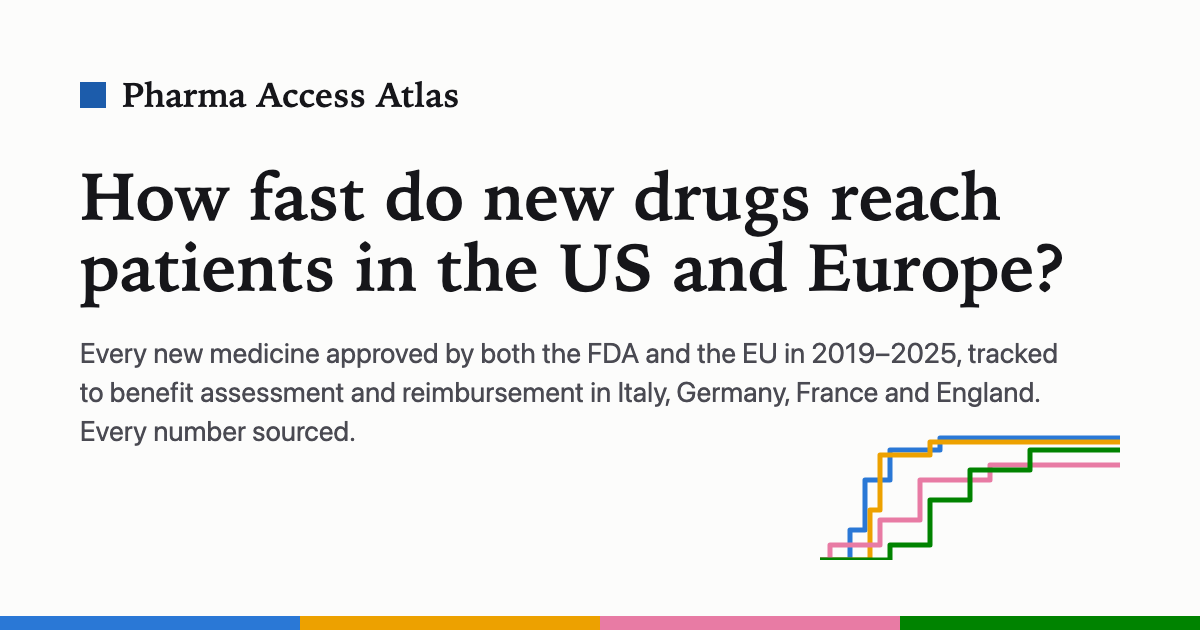
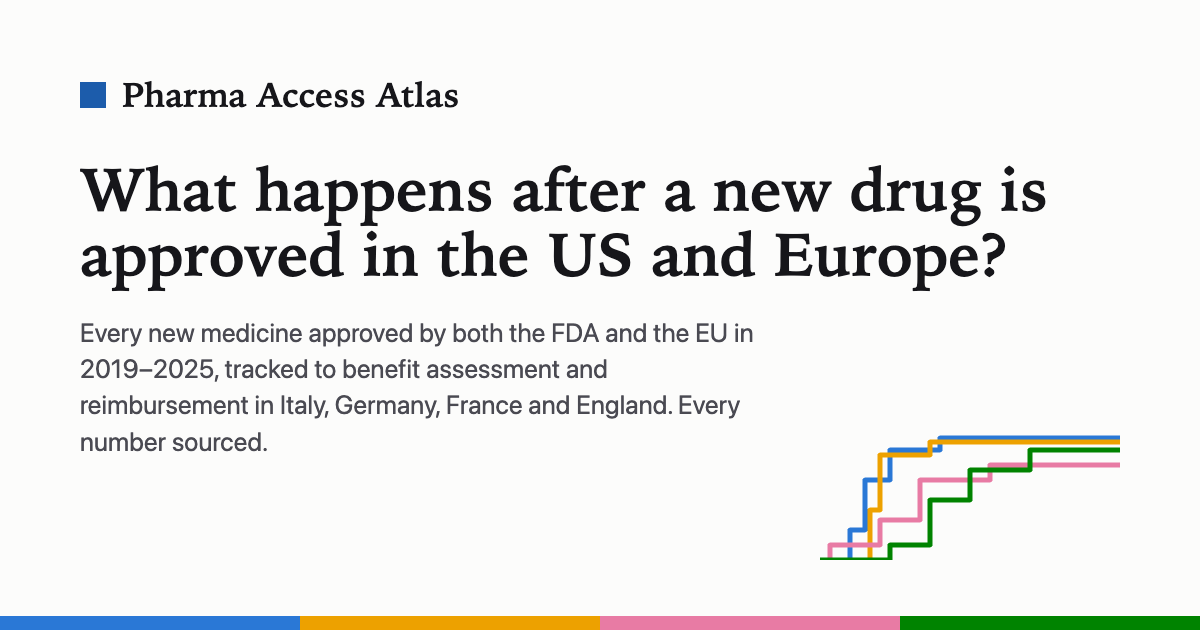
Remove remaining rankings and state why 10 drugs leave the Italian curve
Drug briefs: the heading is now "In context" and the Italian comparison no
longer ranks the drug among others ("18th-longest wait"); it says longer or
shorter than the median. The Italy country page says national reimbursement,
not access, starts at publication. The link-preview image and the country page
descriptions no longer ask "how fast". The Methodology's "Drugs without a
verdict" section now gives Italy's counts, including the drugs whose Italian
status could not be verified. All four languages.

Changed region(s): [[0.0617, 0.2413, 0.8942, 0.7238]]

diff --git a/docs/social-card.html b/docs/social-card.html
@@ -8,14 +8,14 @@
   .wrap { position: absolute; inset: 0; padding: 72px 80px; box-sizing: border-box; }
   .brand { font-family: "Iowan Old Style", Palatino, Georgia, serif; font-size: 34px; font-weight: 600; display: flex; align-items: center; gap: 16px; }
   .brand::before { content: ""; width: 26px; height: 26px; background: #1c5cab; display: inline-block; }
-  h1 { font-family: "Iowan Old Style", Palatino, Georgia, serif; font-size: 66px; line-height: 1.08; margin: 44px 0 0; max-width: 1000px; font-weight: 600; }
-  p { font-size: 28px; color: #4a4a52; margin: 28px 0 0; max-width: 980px; line-height: 1.4; }
+  h1 { font-family: "Iowan Old Style", Palatino, Georgia, serif; font-size: 60px; line-height: 1.08; margin: 40px 0 0; max-width: 1040px; font-weight: 600; }
+  p { font-size: 26px; color: #4a4a52; margin: 26px 0 0; max-width: 690px; line-height: 1.4; }
   .bar { position: absolute; left: 0; right: 0; bottom: 0; height: 14px; display: flex; }
   .bar span { flex: 1; }
   svg { position: absolute; right: 80px; bottom: 70px; }
 </style></head><body><div class="wrap">
   <div class="brand">Pharma Access Atlas</div>
-  <h1>How fast do new drugs reach patients in the US and Europe?</h1>
+  <h1>What happens after a new drug is approved in the US and Europe?</h1>
   <p>Every new medicine approved by both the FDA and the EU in 2019–2025, tracked to benefit assessment and
     reimbursement in Italy, Germany, France and England. Every number sourced.</p>
   <!-- Four illustrative step curves in the site's country colours (shape only, not data). -->

diff --git a/site/pages/i18n/fr/methodology.html b/site/pages/i18n/fr/methodology.html
@@ -112,6 +112,9 @@
     {{gba_none_ongoing}} ont une évaluation en cours et {{gba_none_unk}} n’ont pas pu être vérifiés.</li>
   <li><strong>France :</strong> {{fr_n}} médicaments ont un avis d’inscription de la HAS. Les {{fr_none}} autres n’en ont pas, souvent
     parce que le médicament n’a jamais été commercialisé en France.</li>
+  <li><strong>Italie :</strong> {{it_n_reimbursed}} médicaments sont remboursés et {{it_n_waiting}} ne l’étaient pas
+    à la date de vérification. Pour les {{it_n_unknown}} autres, le statut en Italie n’a pas pu être vérifié à partir de
+    sources publiques ; ils sont donc exclus de la courbe et des médianes italiennes.</li>
   <li><strong>Angleterre :</strong> {{en_n}} médicaments ont une décision du NICE (recommandé, optimisé, accès encadré, non
     recommandé ou interrompu). Parmi les {{en_none_n}} autres, {{en_none_prog}} ont une évaluation en cours d’élaboration,
     {{en_none_na}} ne seront pas évalués et {{en_none_unk}} n’ont pas pu être vérifiés.</li>

diff --git a/site/pages/i18n/de/insights.html b/site/pages/i18n/de/insights.html
@@ -91,7 +91,7 @@
 <section aria-labelledby="f7">
   <h2 id="f7"><span class="finding-num">7</span> Die Zeiten bis zur italienischen Erstattung zeigen keinen klaren Zusammenhang mit den hier gemessenen Merkmalen</h2>
   <p>Wir haben die Arzneimittel auf {{drv_n}} Arten aufgeteilt (Orphan oder nicht, Urteil Deutschlands, Urteil Frankreichs, bedingte Zulassung,
-    Zell- oder Gentherapie, Onkologie, Unternehmensgröße) und verglichen, wie schnell jede Gruppe in Italien erstattet wurde, unter Einbeziehung der
+    Zell- oder Gentherapie, Onkologie, Unternehmensgröße) und je Gruppe die Zeit bis zur Erstattung in Italien verglichen, unter Einbeziehung der
     noch wartenden Arzneimittel. Der Median jeder Gruppe lag zwischen <strong>{{drv_med_lo}} und {{drv_med_hi}} Tagen</strong>.
     Arzneimittel mit einem Zusatznutzen in Deutschland brauchten {{drv_de_y_med}} Tage ({{drv_de_y_n}} Arzneimittel), gegenüber {{drv_de_n_med}}
     bei denen ohne ({{drv_de_n_n}}). Orphan Drugs brauchten {{drv_or_y_med}}, andere {{drv_or_n_med}}. Keiner

diff --git a/site/pages/i18n/de/methodology.html b/site/pages/i18n/de/methodology.html
@@ -112,6 +112,9 @@
     bei {{gba_none_ongoing}} läuft die Bewertung noch und {{gba_none_unk}} konnten nicht überprüft werden.</li>
   <li><strong>Frankreich:</strong> {{fr_n}} Arzneimittel haben eine HAS-Stellungnahme zur Aufnahme in die Erstattung. Die übrigen {{fr_none}} haben keine, oft
     weil das Arzneimittel in Frankreich nie vermarktet wurde.</li>
+  <li><strong>Italien:</strong> {{it_n_reimbursed}} Arzneimittel sind erstattet, {{it_n_waiting}} waren bei der Prüfung
+    nicht erstattet. Für die übrigen {{it_n_unknown}} ließ sich der Status in Italien nicht aus öffentlichen Quellen
+    prüfen; sie fehlen daher in der italienischen Kurve und den Medianen.</li>
   <li><strong>England:</strong> {{en_n}} Arzneimittel haben eine NICE-Entscheidung (empfohlen, optimiert, Managed Access, nicht
     empfohlen oder eingestellt). Von den übrigen {{en_none_n}} haben {{en_none_prog}} eine Bewertung in Entwicklung,
     {{en_none_na}} werden nicht bewertet und {{en_none_unk}} konnten nicht überprüft werden.</li>

diff --git a/site/pages/i18n/it/methodology.html b/site/pages/i18n/it/methodology.html
@@ -112,6 +112,9 @@
     {{gba_none_ongoing}} hanno una valutazione ancora in corso e {{gba_none_unk}} non è stato possibile verificarli.</li>
   <li><strong>Francia:</strong> {{fr_n}} farmaci hanno un parere HAS sull'iscrizione al rimborso. Gli altri {{fr_none}} non ne hanno, spesso
     perché il farmaco non è mai stato commercializzato in Francia.</li>
+  <li><strong>Italia:</strong> {{it_n_reimbursed}} farmaci sono rimborsati e {{it_n_waiting}} non lo erano alla data
+    della verifica. Per gli altri {{it_n_unknown}} lo stato in Italia non è stato possibile verificarlo da fonti
+    pubbliche, quindi sono esclusi dalla curva e dalle mediane italiane.</li>
   <li><strong>Inghilterra:</strong> {{en_n}} farmaci hanno una decisione del NICE (raccomandato, ottimizzato, accesso gestito, non
     raccomandato o terminato). Degli altri {{en_none_n}}, {{en_none_prog}} hanno una valutazione in corso di sviluppo,
     {{en_none_na}} non saranno valutati e {{en_none_unk}} non è stato possibile verificarli.</li>

diff --git a/site/pages/methodology.html b/site/pages/methodology.html
@@ -111,6 +111,9 @@
     {{gba_none_ongoing}} have an assessment still in progress and {{gba_none_unk}} could not be verified.</li>
   <li><strong>France:</strong> {{fr_n}} drugs have a HAS inclusion opinion. The other {{fr_none}} have none, often
     because the drug was never marketed in France.</li>
+  <li><strong>Italy:</strong> {{it_n_reimbursed}} drugs are reimbursed and {{it_n_waiting}} were not reimbursed when
+    checked. For the other {{it_n_unknown}}, the Italian status could not be verified from public sources, so they
+    are left out of the Italian curve and medians.</li>
   <li><strong>England:</strong> {{en_n}} drugs have a NICE decision (recommended, optimised, managed access, not
     recommended or terminated). Of the other {{en_none_n}}, {{en_none_prog}} have an appraisal in development,
     {{en_none_na}} will not be appraised and {{en_none_unk}} could not be verified.</li>

diff --git a/site/pages/insights.html b/site/pages/insights.html
@@ -91,7 +91,7 @@
 <section aria-labelledby="f7">
   <h2 id="f7"><span class="finding-num">7</span> Italian reimbursement times show no clear link to the traits measured here</h2>
   <p>We split the drugs {{drv_n}} ways (orphan or not, Germany's verdict, France's verdict, conditional approval,
-    cell or gene therapy, oncology, company size) and compared how fast each group was reimbursed in Italy, counting
+    cell or gene therapy, oncology, company size) and compared each group's time to reimbursement in Italy, counting
     drugs still waiting. Every group's median fell between <strong>{{drv_med_lo}} and {{drv_med_hi}} days</strong>.
     Drugs Germany found had added benefit took {{drv_de_y_med}} days ({{drv_de_y_n}} drugs), against {{drv_de_n_med}}
     for those it found had none ({{drv_de_n_n}}). Orphan drugs took {{drv_or_y_med}}, others {{drv_or_n_med}}. None

diff --git a/pipeline/so_what.py b/pipeline/so_what.py
@@ -1,8 +1,8 @@
 """Three 'so what' bullets per drug brief, generated from the data, in each site language.
 
 With ~200 drugs the bullets are written by rules instead of by hand, so every sentence is grounded in the
-drug's own sourced values and in medians for the whole atlas. The wording is cautious ("faster than the
-median") and never adds facts that are not in the data. The sentence patterns live in site/i18n/<lang>.json
+drug's own sourced values and in medians for the whole atlas. The wording is descriptive ("longer than the
+median", never a rank among drugs) and never adds facts that are not in the data. The sentence patterns live in site/i18n/<lang>.json
 (keys "so.*"); check_text.py verifies every number in the English version.
 """
 from __future__ import annotations
@@ -29,18 +29,11 @@ def bullets(r: dict, all_rows: list[dict], s: dict, t: i18n.Strings) -> list[str
 
     # 2. Italian access (the median counts drugs still waiting) -----------------
     it_med = s["access"]["it"]["median"]
-    reimbursed = sorted([x for x in core if x["it_lag"] is not None], key=lambda x: -x["it_lag"])
     if r["it_lag"] is not None:
-        rank = next((i + 1 for i, x in enumerate(reimbursed) if x["id"] == r["id"]), None)
-        quartile = ""
-        if rank and rank <= len(reimbursed) // 4:
-            quartile = t("so.it_rank_longest", ord=t.ordinal(rank), n=t.num(len(reimbursed)))
-        elif rank and rank > len(reimbursed) - len(reimbursed) // 4:
-            quartile = t("so.it_rank_fastest", ord=t.ordinal(len(reimbursed) - rank + 1), n=t.num(len(reimbursed)))
-        cmp = (t("so.cmp_slower") if r["it_lag"] > it_med else t("so.cmp_faster") if r["it_lag"] < it_med
+        # Compared with the median only: no rank among drugs, which would read as a league table.
+        cmp = (t("so.cmp_longer") if r["it_lag"] > it_med else t("so.cmp_shorter") if r["it_lag"] < it_med
                else t("so.cmp_equal"))
-        out.append(t("so.it_reimbursed", cls=r["it_class"], lag=t.num(r["it_lag"]), cmp=cmp,
-                     med=t.num(it_med), rank=quartile))
+        out.append(t("so.it_reimbursed", cls=r["it_class"], lag=t.num(r["it_lag"]), cmp=cmp, med=t.num(it_med)))
     elif r["it_status"] == "not reimbursed":
         out.append(t("so.it_waiting", days=t.num(r["it_waiting"]), cls=r["it_class"], date=t.date(r["it_checked"])))
     else:

diff --git a/pipeline/build_site.py b/pipeline/build_site.py
@@ -428,7 +428,7 @@ def build_language(t: i18n.Strings, ctx: dict) -> int:
         "data_as_of": t.date(as_of), "n": n(s["n"]), "lag_median": n(analysis.days(s["lag_median"])),
         "lag_us_first": n(s["lag_us_first"]), "lag_eu_first": n(s["lag_eu_first"]),
         "it_lag_median": n(s["access"]["it"]["median"]), "it_n_reimbursed": n(s["it_n_reimbursed"]),
-        "it_n_waiting": n(s["it_n_waiting"]),
+        "it_n_waiting": n(s["it_n_waiting"]), "it_n_unknown": n(s["it_n_unknown"]),
         "it_waiting_names": ", ".join(w["brand"] for w in s["it_waiting"]) or t("brief.none"),
         "gba_pct_nab": s["gba_pct_no_added_benefit"], "gba_n_nab": n(s["gba_n_no_added_benefit"]),
         "gba_n_assessed": n(s["gba_n_assessed"]), "cms_n_selected": s["cms_n_selected"],
